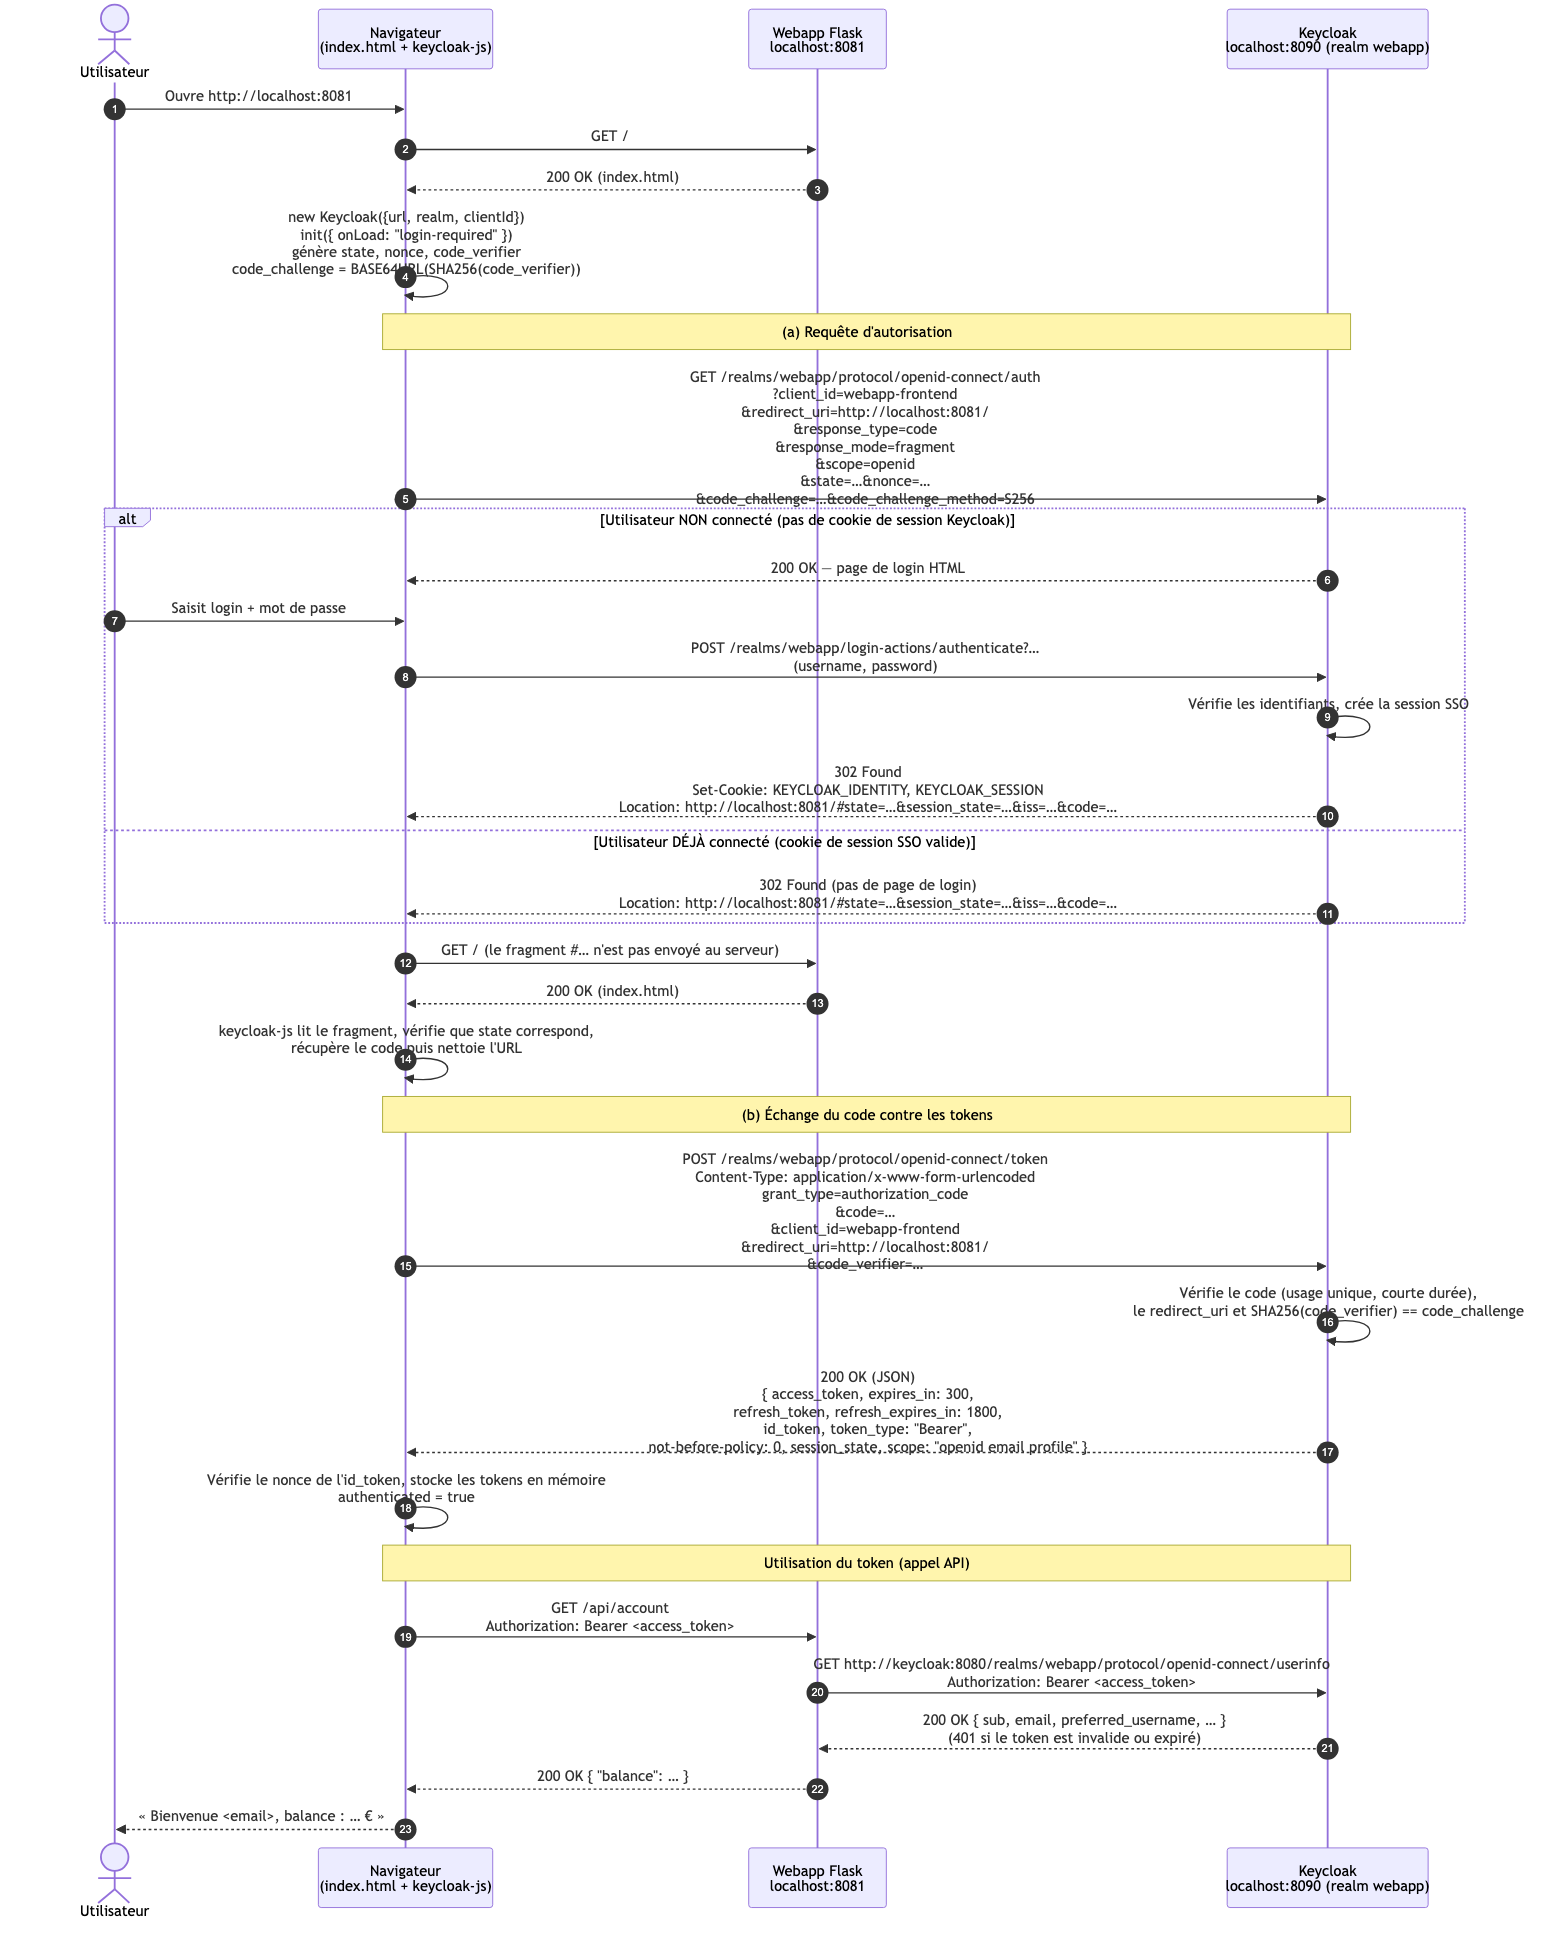
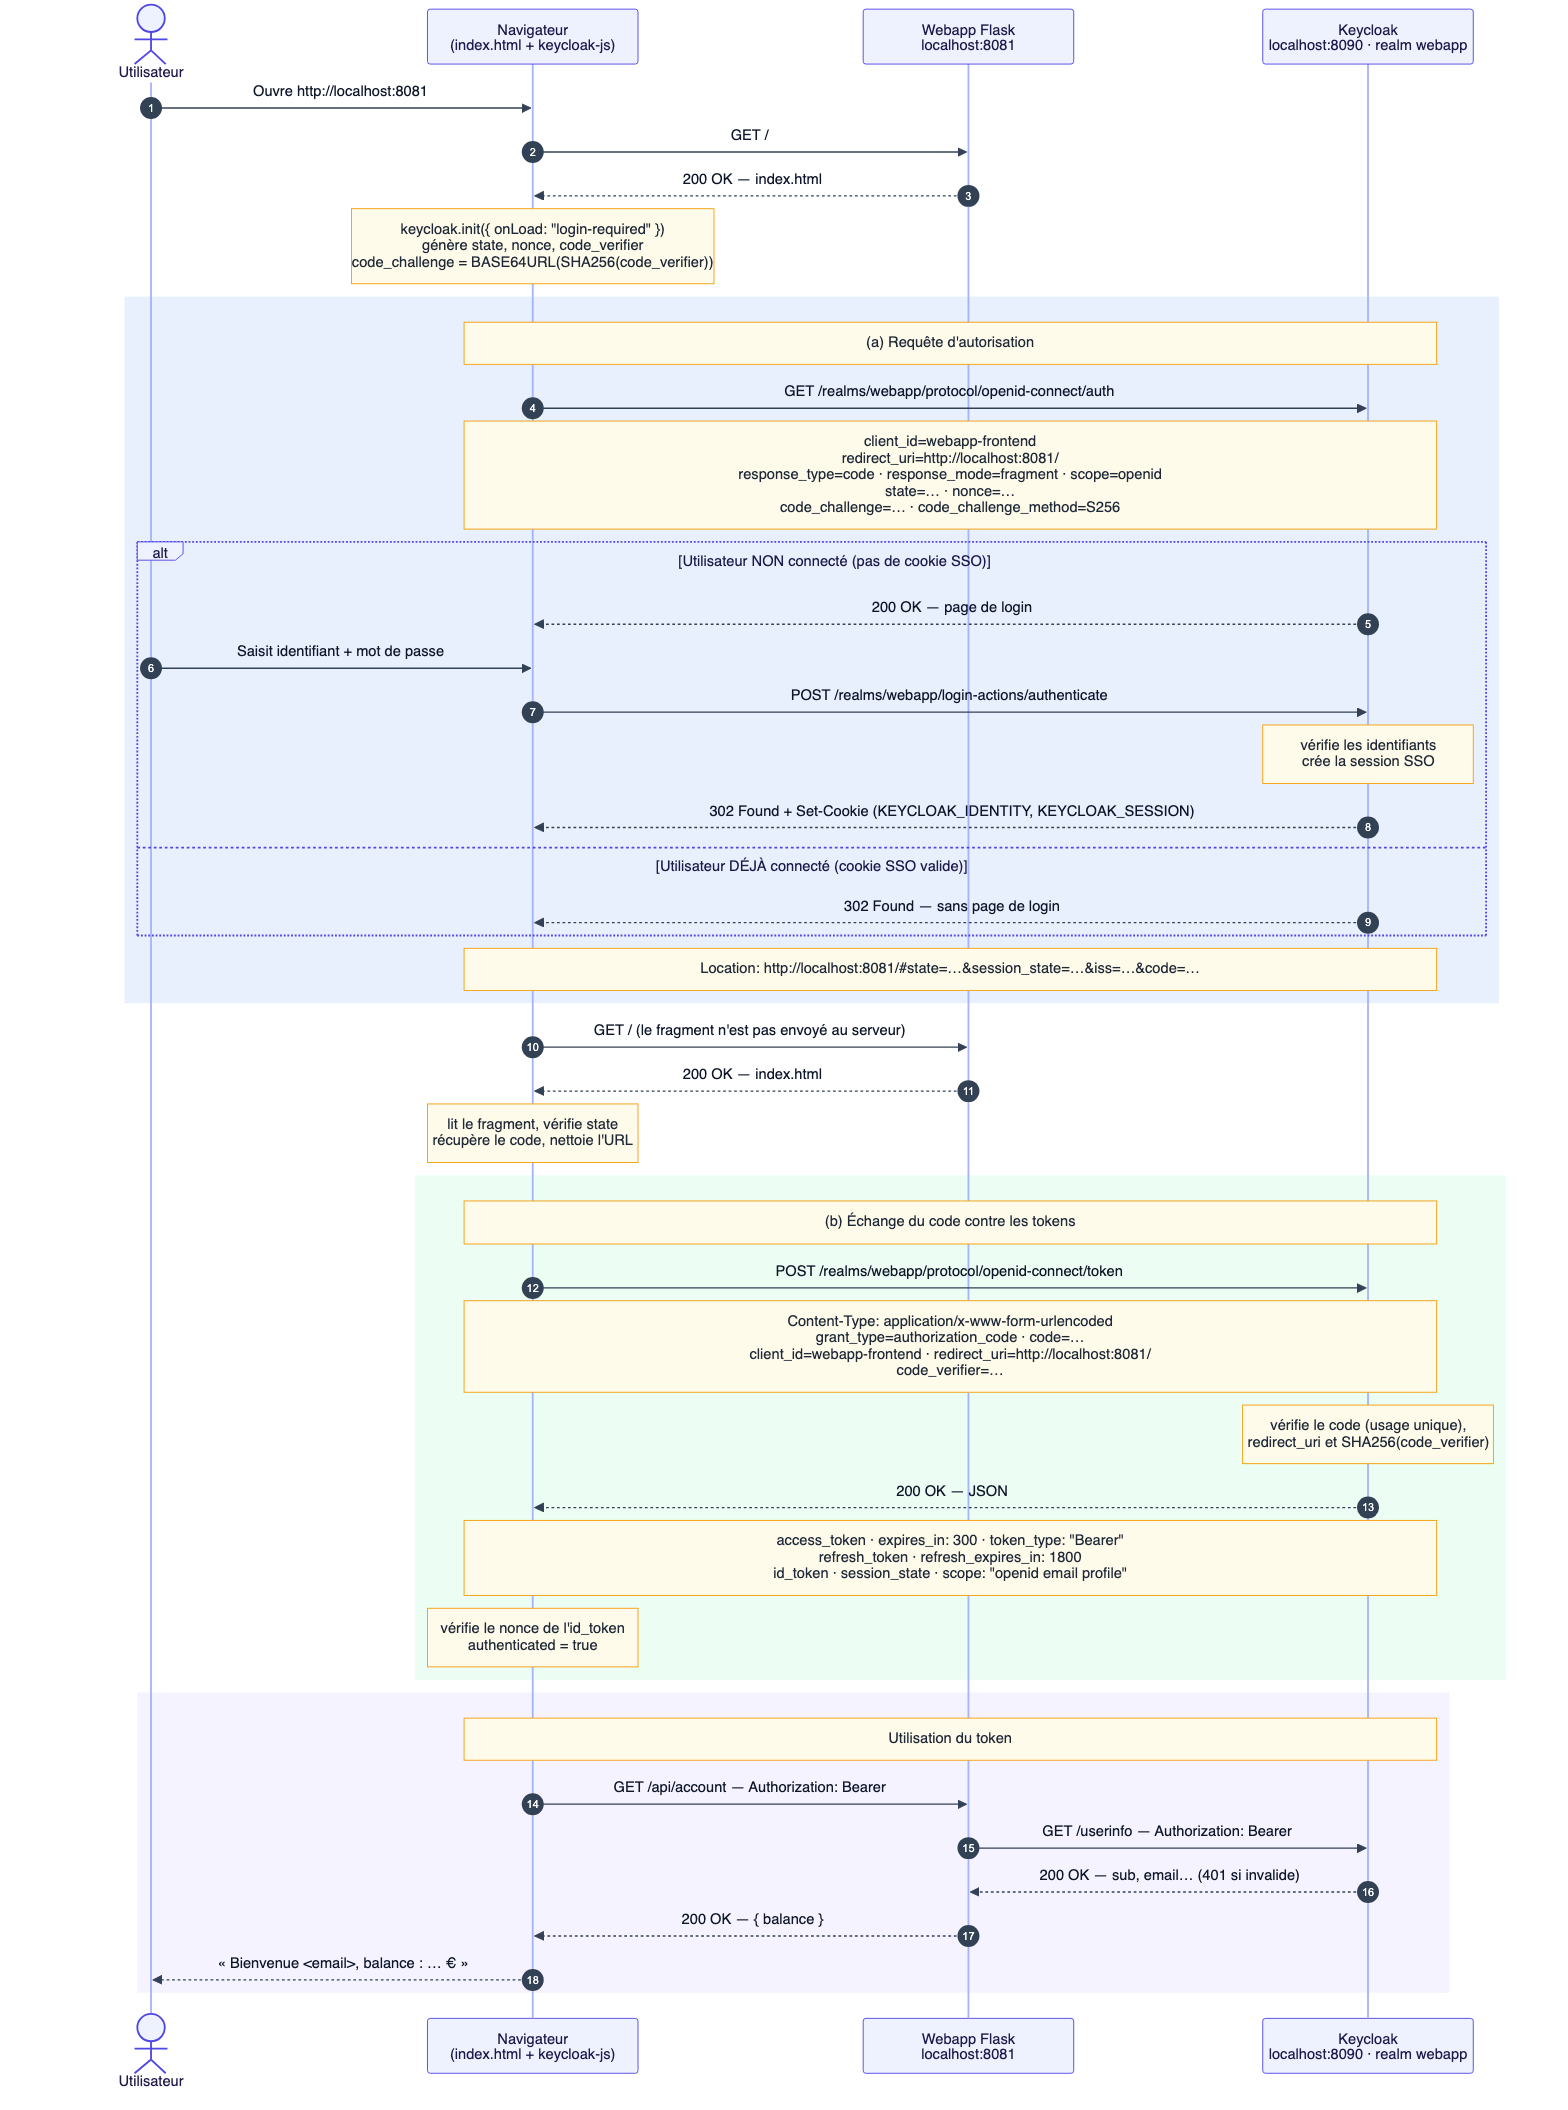
docs: rework Q20/Q23 sequence diagrams for readability
Move parameters and responses into notes, color each phase, and keep
the Mermaid sources and theme config in rapport/src.

diff --git a/rapport/q20-standard-flow.md b/rapport/q20-standard-flow.md
@@ -5,48 +5,61 @@
 
 ## Diagramme
 
+![Diagramme](q20-standard-flow.png)
+
+Source Mermaid (`src/q20-standard-flow.mmd`, config `src/mermaid-config.json`) :
+
 ```mermaid
 sequenceDiagram
     autonumber
     actor U as Utilisateur
     participant B as Navigateur<br/>(index.html + keycloak-js)
     participant F as Webapp Flask<br/>localhost:8081
-    participant K as Keycloak<br/>localhost:8090 (realm webapp)
+    participant K as Keycloak<br/>localhost:8090 · realm webapp
 
     U->>B: Ouvre http://localhost:8081
     B->>F: GET /
-    F-->>B: 200 OK (index.html)
-    B->>B: new Keycloak({url, realm, clientId})<br/>init({ onLoad: "login-required" })<br/>génère state, nonce, code_verifier<br/>code_challenge = BASE64URL(SHA256(code_verifier))
+    F-->>B: 200 OK — index.html
+    Note over B: keycloak.init({ onLoad: "login-required" })<br/>génère state, nonce, code_verifier<br/>code_challenge = BASE64URL(SHA256(code_verifier))
 
+    rect rgb(232, 240, 254)
     Note over B,K: (a) Requête d'autorisation
-    B->>K: GET /realms/webapp/protocol/openid-connect/auth<br/>?client_id=webapp-frontend<br/>&redirect_uri=http://localhost:8081/<br/>&response_type=code<br/>&response_mode=fragment<br/>&scope=openid<br/>&state=…&nonce=…<br/>&code_challenge=…&code_challenge_method=S256
-
-    alt Utilisateur NON connecté (pas de cookie de session Keycloak)
-        K-->>B: 200 OK — page de login HTML
-        U->>B: Saisit login + mot de passe
-        B->>K: POST /realms/webapp/login-actions/authenticate?…<br/>(username, password)
-        K->>K: Vérifie les identifiants, crée la session SSO
-        K-->>B: 302 Found<br/>Set-Cookie: KEYCLOAK_IDENTITY, KEYCLOAK_SESSION<br/>Location: http://localhost:8081/#35;state=…&session_state=…&iss=…&code=…
-    else Utilisateur DÉJÀ connecté (cookie de session SSO valide)
-        K-->>B: 302 Found (pas de page de login)<br/>Location: http://localhost:8081/#35;state=…&session_state=…&iss=…&code=…
+    B->>K: GET /realms/webapp/protocol/openid-connect/auth
+    Note over B,K: client_id=webapp-frontend<br/>redirect_uri=http://localhost:8081/<br/>response_type=code  ·  response_mode=fragment  ·  scope=openid<br/>state=…  ·  nonce=…<br/>code_challenge=…  ·  code_challenge_method=S256
+    alt Utilisateur NON connecté (pas de cookie SSO)
+        K-->>B: 200 OK — page de login
+        U->>B: Saisit identifiant + mot de passe
+        B->>K: POST /realms/webapp/login-actions/authenticate
+        Note over K: vérifie les identifiants<br/>crée la session SSO
+        K-->>B: 302 Found + Set-Cookie (KEYCLOAK_IDENTITY, KEYCLOAK_SESSION)
+    else Utilisateur DÉJÀ connecté (cookie SSO valide)
+        K-->>B: 302 Found — sans page de login
+    end
+    Note over B,K: Location: http://localhost:8081/#35;state=…&session_state=…&iss=…&code=…
     end
 
-    B->>F: GET / (le fragment #35;… n'est pas envoyé au serveur)
-    F-->>B: 200 OK (index.html)
-    B->>B: keycloak-js lit le fragment, vérifie que state correspond,<br/>récupère le code puis nettoie l'URL
+    B->>F: GET / (le fragment n'est pas envoyé au serveur)
+    F-->>B: 200 OK — index.html
+    Note over B: lit le fragment, vérifie state<br/>récupère le code, nettoie l'URL
 
+    rect rgb(236, 253, 243)
     Note over B,K: (b) Échange du code contre les tokens
-    B->>K: POST /realms/webapp/protocol/openid-connect/token<br/>Content-Type: application/x-www-form-urlencoded<br/>grant_type=authorization_code<br/>&code=…<br/>&client_id=webapp-frontend<br/>&redirect_uri=http://localhost:8081/<br/>&code_verifier=…
-    K->>K: Vérifie le code (usage unique, courte durée),<br/>le redirect_uri et SHA256(code_verifier) == code_challenge
-    K-->>B: 200 OK (JSON)<br/>{ access_token, expires_in: 300,<br/>refresh_token, refresh_expires_in: 1800,<br/>id_token, token_type: "Bearer",<br/>not-before-policy: 0, session_state, scope: "openid email profile" }
-    B->>B: Vérifie le nonce de l'id_token, stocke les tokens en mémoire<br/>authenticated = true
+    B->>K: POST /realms/webapp/protocol/openid-connect/token
+    Note over B,K: Content-Type: application/x-www-form-urlencoded<br/>grant_type=authorization_code  ·  code=…<br/>client_id=webapp-frontend  ·  redirect_uri=http://localhost:8081/<br/>code_verifier=…
+    Note over K: vérifie le code (usage unique),<br/>redirect_uri et SHA256(code_verifier)
+    K-->>B: 200 OK — JSON
+    Note over B,K: access_token  ·  expires_in: 300  ·  token_type: "Bearer"<br/>refresh_token  ·  refresh_expires_in: 1800<br/>id_token  ·  session_state  ·  scope: "openid email profile"
+    Note over B: vérifie le nonce de l'id_token<br/>authenticated = true
+    end
 
-    Note over B,K: Utilisation du token (appel API)
-    B->>F: GET /api/account<br/>Authorization: Bearer <access_token>
-    F->>K: GET http://keycloak:8080/realms/webapp/protocol/openid-connect/userinfo<br/>Authorization: Bearer <access_token>
-    K-->>F: 200 OK { sub, email, preferred_username, … }<br/>(401 si le token est invalide ou expiré)
-    F-->>B: 200 OK { "balance": … }
+    rect rgb(245, 243, 255)
+    Note over B,K: Utilisation du token
+    B->>F: GET /api/account — Authorization: Bearer
+    F->>K: GET /userinfo — Authorization: Bearer
+    K-->>F: 200 OK — sub, email… (401 si invalide)
+    F-->>B: 200 OK — { balance }
     B-->>U: « Bienvenue <email>, balance : … € »
+    end
 ```
 
 ## (a) Requête `GET …/openid-connect/auth`
